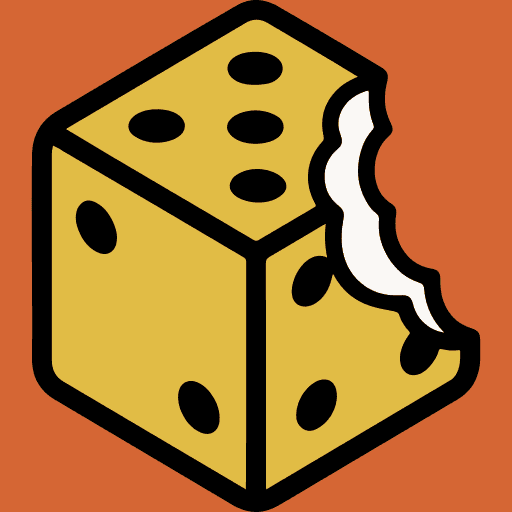
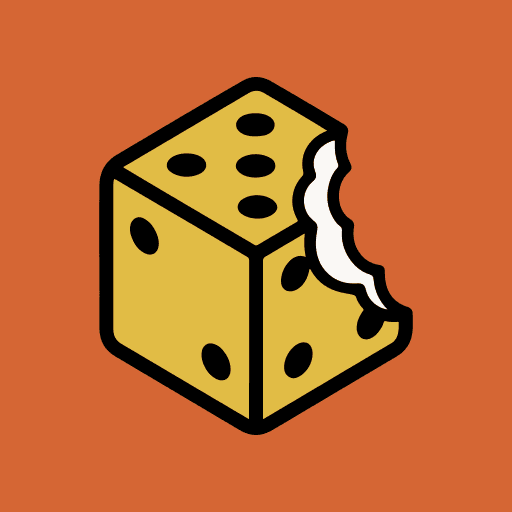
Improve chips, Improve how the scanner walkthrough ranges, Improve default wrangler.json distances, Update app declaration

diff --git a/src/app/components/search-preference/preference-chip.tsx b/src/app/components/search-preference/preference-chip.tsx
@@ -1,8 +1,8 @@
 import { useDrag } from "@use-gesture/react";
-import { Footprints, MapPin } from "lucide-react";
+import { BadgeQuestionMark, Car, Footprints, MapPin, Rocket, type LucideIcon } from "lucide-react";
 import { forwardRef, useImperativeHandle, useState } from "react";
 
-import { findIconFor, type Preference } from "@features/search";
+import { findIconFor, type DistanceRangeOption, type Preference } from "@features/search";
 
 import { PreferenceChipValue } from "./preference-chip-value";
 
@@ -45,6 +45,8 @@ export const PreferenceChip = forwardRef<PreferenceChipHandle, PreferenceChipPro
     }));
 
     const isLocationValid = preferences ? !preferences.isDeviceLocationAttempted || preferences.hasValidLocation : true;
+    const distanceIcon = findDistanceIcon(preferences?.range);
+
     return (
       <section className="w-full px-2 pb-0">
         <button className={`
@@ -75,12 +77,12 @@ export const PreferenceChip = forwardRef<PreferenceChipHandle, PreferenceChipPro
               />
 
             <PreferenceChipValue
-              label={preferences?.range?.label?.compact}
               className={`
-                mt-1.5 rotate-2
+                mt-1.5 rotate-2 p-1
                 hover:rotate-0
               `}
-              icon={Footprints}
+              iconClassName="h-5 w-5"
+              icon={distanceIcon}
               />
 
             <PreferenceChipValue
@@ -97,4 +99,17 @@ export const PreferenceChip = forwardRef<PreferenceChipHandle, PreferenceChipPro
     );
   }
 );
-PreferenceChip.displayName = "MyInput";
+PreferenceChip.displayName = "PreferenceChip";
+
+function findDistanceIcon(range: DistanceRangeOption | undefined): LucideIcon {
+  switch(range?.id) {
+    case "Close":
+      return Footprints;
+    case "MidRange":
+      return Car;
+    case "Far":
+      return Rocket;
+    default:
+      return BadgeQuestionMark;
+  }
+}

diff --git a/src/app/components/help/modal.tsx b/src/app/components/help/modal.tsx
@@ -1,12 +1,12 @@
 import {
   AlertTriangle,
   Cookie,
+  DatabaseZap,
   Lightbulb,
   Mail,
   Map,
   MapPin,
   Scroll,
-  Server,
   ShieldCheck,
   Sparkles
 } from "lucide-react";
@@ -54,7 +54,7 @@ export function HelpModal({ configuration, isOpen, onClose }: HelpModalProps) {
             mb-4 text-sm opacity-80
             sm:mb-8
           `}>
-            In a world of infinite choices, the hardest question is often, <em>"Where should we eat?"</em>
+            The hardest question is always: <em>"Where should we eat?"</em> We answer it.
           </p>
         </div>
 
@@ -162,7 +162,6 @@ function DietTab({ configuration }: { configuration: AppConfiguration }) {
         </div>
       </div>
 
-      {/* Location */}
       <div className="flex items-start gap-3">
         <div className="mt-1 shrink-0 rounded-lg bg-blue-100 p-2">
           <MapPin className="h-5 w-5 text-blue-600" />
@@ -179,12 +178,12 @@ function DietTab({ configuration }: { configuration: AppConfiguration }) {
 
       <div className="flex items-start gap-3">
         <div className="mt-1 shrink-0 rounded-lg bg-indigo-100 p-2">
-          <Server className="h-5 w-5 text-indigo-600" />
+          <DatabaseZap className="h-5 w-5 text-indigo-600" />
         </div>
         <div>
-          <h4 className="mb-1 text-sm font-bold tracking-wide uppercase">Fortress Europe</h4>
+          <h4 className="mb-1 text-sm font-bold tracking-wide uppercase">European Edge</h4>
           <p className="text-xs leading-relaxed opacity-80">
-            Your data is securely anchored in <strong>Frankfurt, Germany</strong> (eu-central-1).
+            Your data is stored in <strong>Western Europe</strong> and delivered via the secure Cloudflare Edge network.
           </p>
         </div>
       </div>

diff --git a/src/app/components/search-preference/preference-chip-value.tsx b/src/app/components/search-preference/preference-chip-value.tsx
@@ -1,21 +1,22 @@
-import type { LucideProps } from "lucide-react";
+import type { LucideIcon } from "lucide-react";
 
 interface PreferenceChipValueProps {
-  label: string;
-  icon?: React.ForwardRefExoticComponent<Omit<LucideProps, "ref"> & React.RefAttributes<SVGSVGElement>>;
+  label?: string | undefined;
   className?: string;
+  iconClassName?: string;
   isValid?: boolean;
   isBuzzing?: boolean;
+  icon?: LucideIcon | undefined;
 }
 
 export function PreferenceChipValue({
-  icon,
+  icon: Icon,
   label,
   className = "",
+  iconClassName = "h-4 w-4",
   isValid = true,
   isBuzzing = false,
 }: PreferenceChipValueProps) {
-  const Icon = icon;
   return (
     <div className="group/tag relative">
       <div className={`
@@ -34,21 +35,23 @@ export function PreferenceChipValue({
         ${className}
       `}>
         { Icon ? (
-          <Icon className="h-4 w-4" />
+          <Icon className={iconClassName} />
         ) : null}
 
-        <span className={`
-          max-w-32 truncate text-sm font-bold tracking-wide whitespace-nowrap
-          uppercase
-        `}>
-          {label}
-        </span>
+        { label ? (
+          <span className={`
+            max-w-32 truncate text-sm font-bold tracking-wide whitespace-nowrap
+            uppercase
+          `}>
+            {label}
+          </span>
+        ) : null }
 
         {!isValid && (
           <span className={`
             absolute -top-1 -right-1 h-3 w-3 rounded-full border-2
             border-fun-cream bg-fun-red
-            ${isBuzzing ? 'animate-buzz' : ''}
+            ${isBuzzing ? "animate-buzz" : ""}
           `} />
         )}
       </div>

diff --git a/src/app/features/search/distance.ts b/src/app/features/search/distance.ts
@@ -1,10 +1,10 @@
+
 import type { DistanceRange } from "@persistence";
 
 export interface DistanceRangeOption {
   id: DistanceRange;
   label: {
     display: string;
-    compact: string;
   };
 }
 
@@ -12,22 +12,19 @@ export const DISTANCE_RANGES: DistanceRangeOption[] = [
   {
     id: "Close",
     label: {
-      display: "Close",
-      compact: "Close"
+      display: "By foot"
     }
   },
   {
     id: "MidRange",
     label: {
-      display: "Mid-range",
-      compact: "Locally"
+      display: "Drive"
     }
   },
   {
     id: "Far",
     label: {
-      display: "Far",
-      compact: "Far"
+      display: "Adventure"
     }
   }
 ];

diff --git a/src/app/features/discovery.server/scanner.ts b/src/app/features/discovery.server/scanner.ts
@@ -28,7 +28,7 @@ export class RestaurantDiscoveryScanner {
       return [];
     } else {
       this.iteration += 1;
-      const range = this.initialRangeInMeters + this.iteration * this.configuration.rangeIncreaseMeters;
+      const range = this.initialRangeInMeters + (this.iteration - 1) * this.configuration.rangeIncreaseMeters;
       console.trace(`[Discovery] Iteration ${this.iteration}/${this.configuration.maxDiscoveryIterations}: Scanning range ${range}m...`);
 
       try {

diff --git a/src/app/features/search-engine.server/types.ts b/src/app/features/search-engine.server/types.ts
@@ -11,15 +11,15 @@ export const DEFAULT_SEARCH_ENGINE_CONFIGURATION: SearchEngineConfiguration = {
   matching: DEFAULT_MATCHING_CONFIGURATION,
   range: {
     close: {
-      rangeInMeters: 1_000,
+      rangeInMeters: 1_500,
       timeoutInMs: 5_000
     },
     midRange: {
-      rangeInMeters: 5_000,
+      rangeInMeters: 15_000,
       timeoutInMs: 10_000
     },
     far: {
-      rangeInMeters: 20_000,
+      rangeInMeters: 40_000,
       timeoutInMs: 30_000
     }
   }

diff --git a/src/app/components/search-preference-form/distance-range-tag.tsx b/src/app/components/search-preference-form/distance-range-tag.tsx
@@ -6,7 +6,7 @@ interface DistanceRangeTagProps {
 export function DistanceRangeTag({ text, className = "" }: DistanceRangeTagProps) {
   return (
     <div className={`
-      relative mt-1 h-10 w-[90px] shrink-0
+      relative mt-1 h-10 w-22.5 shrink-0
       ${className}
     `}>
       <svg

diff --git a/src/app/config.server.ts b/src/app/config.server.ts
@@ -13,7 +13,7 @@ export const APP_CONFIG = {
   name: "BiteRoulette",
   version: "0.0.2",
   privacy: {
-    updatedAt: "January 7th, 2026",
+    updatedAt: "January 8th, 2026",
     contactEmail: "hello@biteroulette.com"
   }
 } as const;

diff --git a/src/pwa-assets.config.ts b/src/pwa-assets.config.ts
@@ -16,7 +16,7 @@ export default defineConfig({
     },
     maskable: {
       sizes: [512],
-      padding: 0,
+      padding: 0.3,
       resizeOptions: {
         background: "#d56634"
       }

diff --git a/README.md b/README.md
@@ -60,6 +60,21 @@ A secret key must be defined in `BROULETTE_SESSION_SECRET`
 $ openssl rand -hex 32
 ```
 
+## Manually backuping the database
+
+To get the SQL backup from D1:
+```bash
+$ npx wrangler d1 export broulette-eu --remote --no-data --output=./schema.sql
+$ npx wrangler d1 export broulette-eu --remote --no-schema --output=./data.sql
+```
+
+To import them:
+```bash
+$ npx wrangler d1 execute broulette-eu --remote --file=./schema.sql
+$ npx wrangler d1 execute broulette-eu --remote --file=./data.sql
+```
+(pay attention that the data file is not always created in the most clean order, this can produces foreign key issues, even when deferring them)
+
 ## Mandatory environment variables
 
 ```
@@ -81,10 +96,8 @@ Use `npx wrangler secret put <KEY>` to create each secret.
 
 ## TODO
 
-* The "candidate page" is almost too long on my pixel 9a. (ex: Le Brazier)
 * Haptics do not work on Android?
 * Use KV for circuit breaker? https://community.cloudflare.com/t/session-management/46770/4
-* "back" does not work properly, the "candidate" page seems to be skipped
 * Streaming HTTP during search
 * Preference form:
     * Use localstorage
